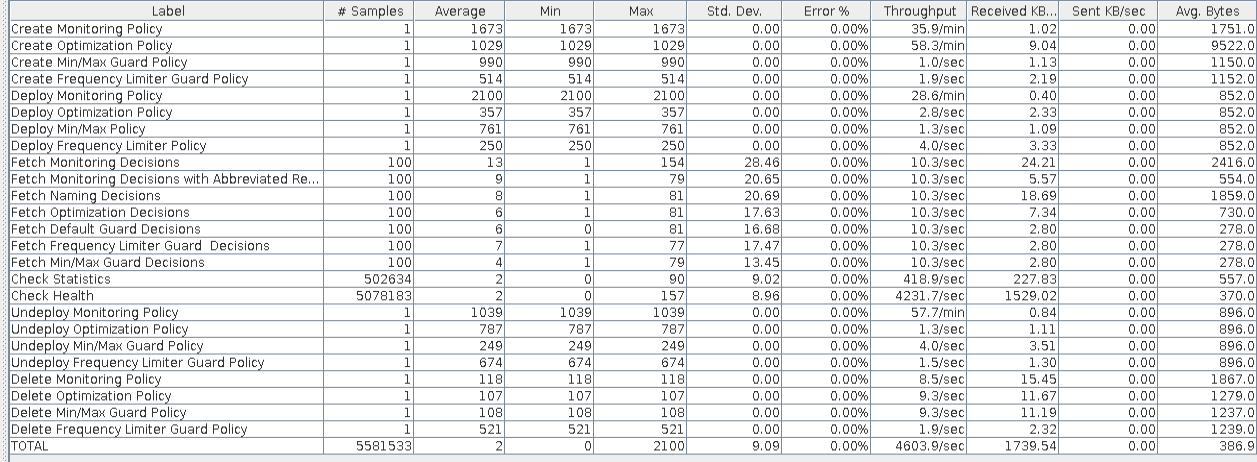
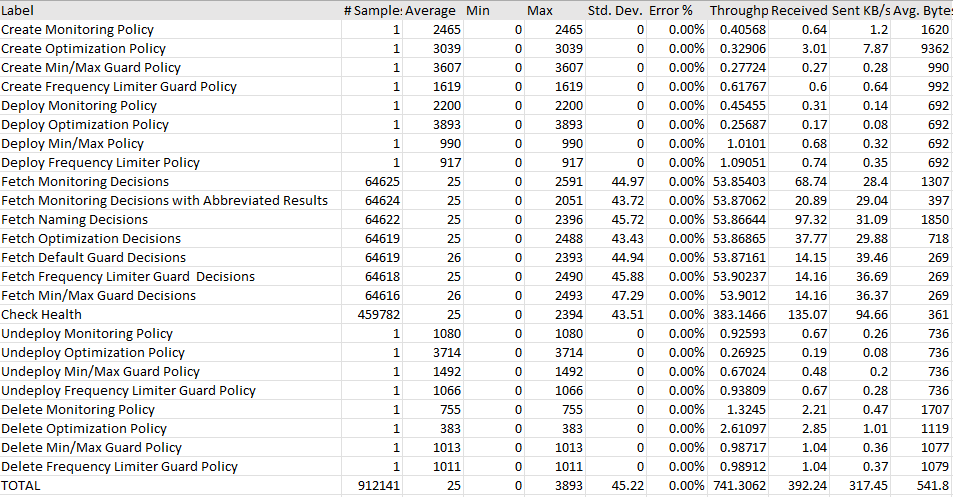
Update S3P testing xacml PDP documentation
Issue-ID: POLICY-4873

diff --git a/docs/development/devtools/testing/s3p/xacml-s3p.rst b/docs/development/devtools/testing/s3p/xacml-s3p.rst
@@ -9,39 +9,48 @@
 
 ##########################
 
-Performance Test of Policy XACML PDP (Jakarta)
-**********************************************
+Policy XACML PDP S3P Tests
+~~~~~~~~~~~~~~~~~~~~~~~~~~
 
-The Performance test was executed by performing requests
-against the Policy RESTful APIs.
+Both the Performance and the Stability tests were executed by performing requests
+against Policy components installed in Kubernetes environment. These tests were all
+performed on a Ubuntu VM with 32GB of memory, 16 CPU and 100GB of disk space.
 
-A default ONAP installation in the Policy tenant in UNH was used to run the tests.
+Policy XACML PDP Deployment
++++++++++++++++++++++++++++
 
-The Agent VMs in this lab have the following configuration:
+In an effort to allow the execution of the s3p tests to be as close to automatic as possible,
+a script will be executed that will perform the following:
 
-- 16GB RAM
-- 8 VCPU
+- Install of a microk8s kubernetes environment
+- Bring up the policy components
+- Checks that the components are successfully up and running before proceeding
+- Install Java 17
+- Install Jmeter locally and configure it
+- Specify whether you want to run stability or performance tests
 
-Summary
-=======
 
-The Performance test was executed, and the result analysed, via:
+The remainder of this document outlines how to run the tests and the test results
+
+Common Setup
+++++++++++++
+The common setup for performance and stability tests is now automated - being carried out by a script in- **testsuites/run-s3p-test.sh**.
+
+Clone the policy-xacml-pdp repo to access the test scripts
 
 .. code-block:: bash
 
-    jmeter -Jduration=1200 -Jusers=10 \
-        -Jxacml_ip=$ip -Jpap_ip=$ip -Japi_ip=$ip \
-        -Jxacml_port=30111 -Jpap_port=30197 -Japi_port=30664 \
-        -n -t perf.jmx -l testresults.jtl
+    git clone https://gerrit.onap.org/r/policy/xacml-pdp xacml-pdp
 
-Note: the ports listed above correspond to port 6969 of the respective components.
+Stability Test of Policy XACML PDP
+++++++++++++++++++++++++++++++++++
 
-The performance tests runs the following, all in parallel:
+Test Plan
+---------
+The 24 hours stability test ran the following steps.
 
-- Healthcheck, 10 simultaneous threads
-- Statistics, 10 simultaneous threads
-- Decisions, 10 simultaneous threads, each running the following in sequence:
-
+- Healthcheck, 2 simultaneous threads
+- Decisions, 2 simultaneous threads, each running the following tasks in sequence:
    - Monitoring Decision
    - Monitoring Decision, abbreviated
    - Naming Decision
@@ -50,62 +59,97 @@ The performance tests runs the following, all in parallel:
    - Frequency Limiter Guard Decision
    - Min/Max Guard Decision
 
-When the script starts up, it uses policy-api to create, and policy-pap to deploy,
-the policies that are needed by the test.  It assumes that the "naming" policy has
-already been created and deployed.  Once the test completes, it undeploys and deletes
-the policies that it previously created.
+This runs for 24 hours. Test results are present in the **testsuites/automated-performance/s3pTestResults.jtl**
+file and in **/tmp/** directory. Logs are present for jmeter in **testsuites/automated-performance/jmeter.log** and
+**testsuites/automated-performance/nohup.out**
 
-Results
-=======
+Run Test
+--------
 
-The test was run for 20 minutes with 10 users (i.e., threads), with the following results:
-
-.. csv-table::
-   :header: "Number of Users", "Throughput (requests/second)", "Average Latency (ms)"
-
-   10, 4603, 2
-
-.. image:: xacml-s3p-results/s3p-perf-xacml.png
-
-
-Stability Test of Policy XACML PDP
-**********************************
-
-This test was run using jmeter on a default
-ONAP installation in the Policy tenant in UNH.
-
-The Agent VMs in this lab have the following configuration:
-
-- 16GB RAM
-- 8 VCPU
-
-Summary
-=======
-
-The stability test was performed on a default ONAP OOM installation in the Policy tenant of the UNH lab.
-JMeter injected the traffic defined in the
-`XACML PDP stability script
-<https://git.onap.org/policy/xacml-pdp/tree/testsuites/stability/src/main/resources/testplans/stability.jmx>`_
-with the following command:
+The code in the setup section also serves to run the tests. Just one execution needed to do it all.
 
 .. code-block:: bash
 
-    jmeter.sh -Jduration=259200 -Jusers=2 -Jxacml_ip=$ip -Jpap_ip=$ip -Japi_ip=$ip \
-        -Jxacml_port=30111 -Jpap_port=30197 -Japi_port=30664 --nongui --testfile stability.jmx
+    bash run-s3p-test.sh run stability
 
-Note: the ports listed above correspond to port 6969 of the respective components.
+Once the test execution is completed, the results are present in the **automate-performance/s3pTestResults.jtl** file.
 
-The default log level of the root and org.eclipse.jetty.server.RequestLog loggers in the logback.xml
-of the XACML PDP
-(om/kubernetes/policy/components/policy-xacml-pdp/resources/config/logback.xml)
-was set to WARN since the OOM installation did have log rotation enabled of the
-container logs in the kubernetes worker nodes.
+This file can be imported into the Jmeter GUI for visualization. The below results are tabulated from the GUI.
 
-The stability test, stability.jmx, runs the following, all in parallel:
+Test Results
+------------
 
-- Healthcheck, 2 simultaneous threads
-- Statistics, 2 simultaneous threads
-- Decisions, 2 simultaneous threads, each running the following tasks in sequence:
+**Summary**
+
+Stability test plan was triggered for 24 hours.
+
+**Test Statistics**
+
+=======================  =================  ========================  =========================
+**Total # of requests**  **Error %**        **Average Latency (ms)**  **Measured requests/sec**
+=======================  =================  ========================  =========================
+  63618103                 0.00 %             5 ms                      736.064 ms
+=======================  =================  ========================  =========================
+
+**JMeter Results**
+
+.. image:: xacml-s3p-results/s3p-stability-xacml.png
+
+**Policy component Setup**
+
+==============================================  ====================================================================  ===========================================
+**NAME**                                        **IMAGE**                                                             **PORT**
+==============================================  ====================================================================  ===========================================
+mariadb-galera-0                                docker.io/bitnami/mariadb-galera:10.5.8                               3306/TCP
+policy-models-simulator-bcd494d87-cldfr         nexus3.onap.org:10001/onap/policy-models-simulator:3.0.2-SNAPSHOT     30904/TCP
+policy-apex-pdp-0                               nexus3.onap.org:10001/onap/policy-apex-pdp:3.0.2-SNAPSHOT             30001/TCP
+prometheus-f66f97b6-kpg5c                       nexus3.onap.org:10001/prom/prometheus:latest                          30909/TCP
+policy-distribution-86777bdd78-95zjx            nexus3.onap.org:10001/onap/policy-distribution:3.0.2-SNAPSHOT         30006/TCP
+policy-clamp-ac-http-ppnt-7b99cbfbf8-d5zjk      nexus3.onap.org:10001/onap/policy-clamp-ac-http-ppnt:7.0.3-SNAPSHOT
+policy-clamp-ac-pf-ppnt-55c4cb99f4-pp699        nexus3.onap.org:10001/onap/policy-clamp-ac-pf-ppnt:7.0.3-SNAPSHOT     30008/TCP
+policy-clamp-ac-k8s-ppnt-6d854cc8b6-nzlgh       nexus3.onap.org:10001/onap/policy-clamp-ac-k8s-ppnt:7.0.3-SNAPSHOT
+policy-clamp-runtime-acm-5c6d8fbfb-zww5j        nexus3.onap.org:10001/onap/policy-clamp-runtime-acm:7.0.3-SNAPSHOT    30007/TCP
+policy-pap-847d89997d-gljzh                     nexus3.onap.org:10001/onap/policy-pap:3.0.2-SNAPSHOT                  30003/TCP
+policy-xacml-pdp-656d57d578-9h6fx               nexus3.onap.org:10001/onap/policy-xacml-pdp:3.0.2-SNAPSHOT            30004/TCP
+policy-api-58cb45fc9b-9qcx6                     nexus3.onap.org:10001/onap/policy-api:3.0.2-SNAPSHOT                  30002/tcp
+==============================================  ====================================================================  ===========================================
+
+.. Note::
+
+              .. container:: paragraph
+
+                  There were no failures during the 24 hours test.
+
+The XACML PDP offered very good performance with JMeter for the traffic mix described above.
+The average transaction time is insignificant.
+
+
+Performance Test of Policy XACML PDP
+++++++++++++++++++++++++++++++++++++
+
+Introduction
+------------
+
+Performance test of acm components has the goal of testing the min/avg/max processing time and rest call throughput for all the requests with multiple requests at the same time.
+
+Setup Details
+-------------
+
+We can setup the environment and execute the tests like this from the **xacml-pdp/testsuites** directory
+
+Test Plan
+---------
+
+Performance test plan is the same as the stability test plan above except for the few differences listed below.
+
+- Increase the number of threads up to 10 (simulating 10 users' behaviours at the same time).
+- Reduce the test time to 20 minutes.
+
+The performance tests runs the following, all in parallel:
+
+- Healthcheck, 10 simultaneous threads
+- Decisions, 10 simultaneous threads, each running the following in sequence:
+
    - Monitoring Decision
    - Monitoring Decision, abbreviated
    - Naming Decision
@@ -119,16 +163,32 @@ the policies that are needed by the test.  It assumes that the "naming" policy h
 already been created and deployed.  Once the test completes, it undeploys and deletes
 the policies that it previously created.
 
-Results
-=======
+Run Test
+--------
 
-The stability summary results were reported by JMeter with the following summary line:
+The code in the setup section also serves to run the tests. Just one execution needed to do it all.
 
 .. code-block:: bash
 
-    summary = 941639699 in 71:59:36 = 3633.2/s Avg:     1 Min:     0 Max:   842 Err:     0 (0.00%)
+    bash run-s3p-test.sh run performance
 
-The XACML PDP offered very good performance with JMeter for the traffic mix described above.
-The average transaction time is insignificant.  The maximum transaction time of 842 ms.
-There was a Drools stability test running in parallel, hence the actual load was higher.
+Once the test execution is completed, the results are present in the **automate-performance/s3pTestResults.jtl** file and in **/tmp/** directory.
 
+This file can be imported into the Jmeter GUI for visualization. The below results are tabulated from the GUI.
+
+Test Results
+------------
+
+**Summary**
+
+The test was run for 20 minutes with 10 users (i.e., threads), with the following results:
+
+**Test Statistics**
+
+=======================  =================  ========================  =========================
+**Total # of requests**  **Error %**        **Average Latency (ms)**  **Measured requests/sec**
+=======================  =================  ========================  =========================
+  912141                   0.00 %             25.5666 ms                741.917 ms
+=======================  =================  ========================  =========================
+
+.. image:: xacml-s3p-results/s3p-perf-xacml.png
